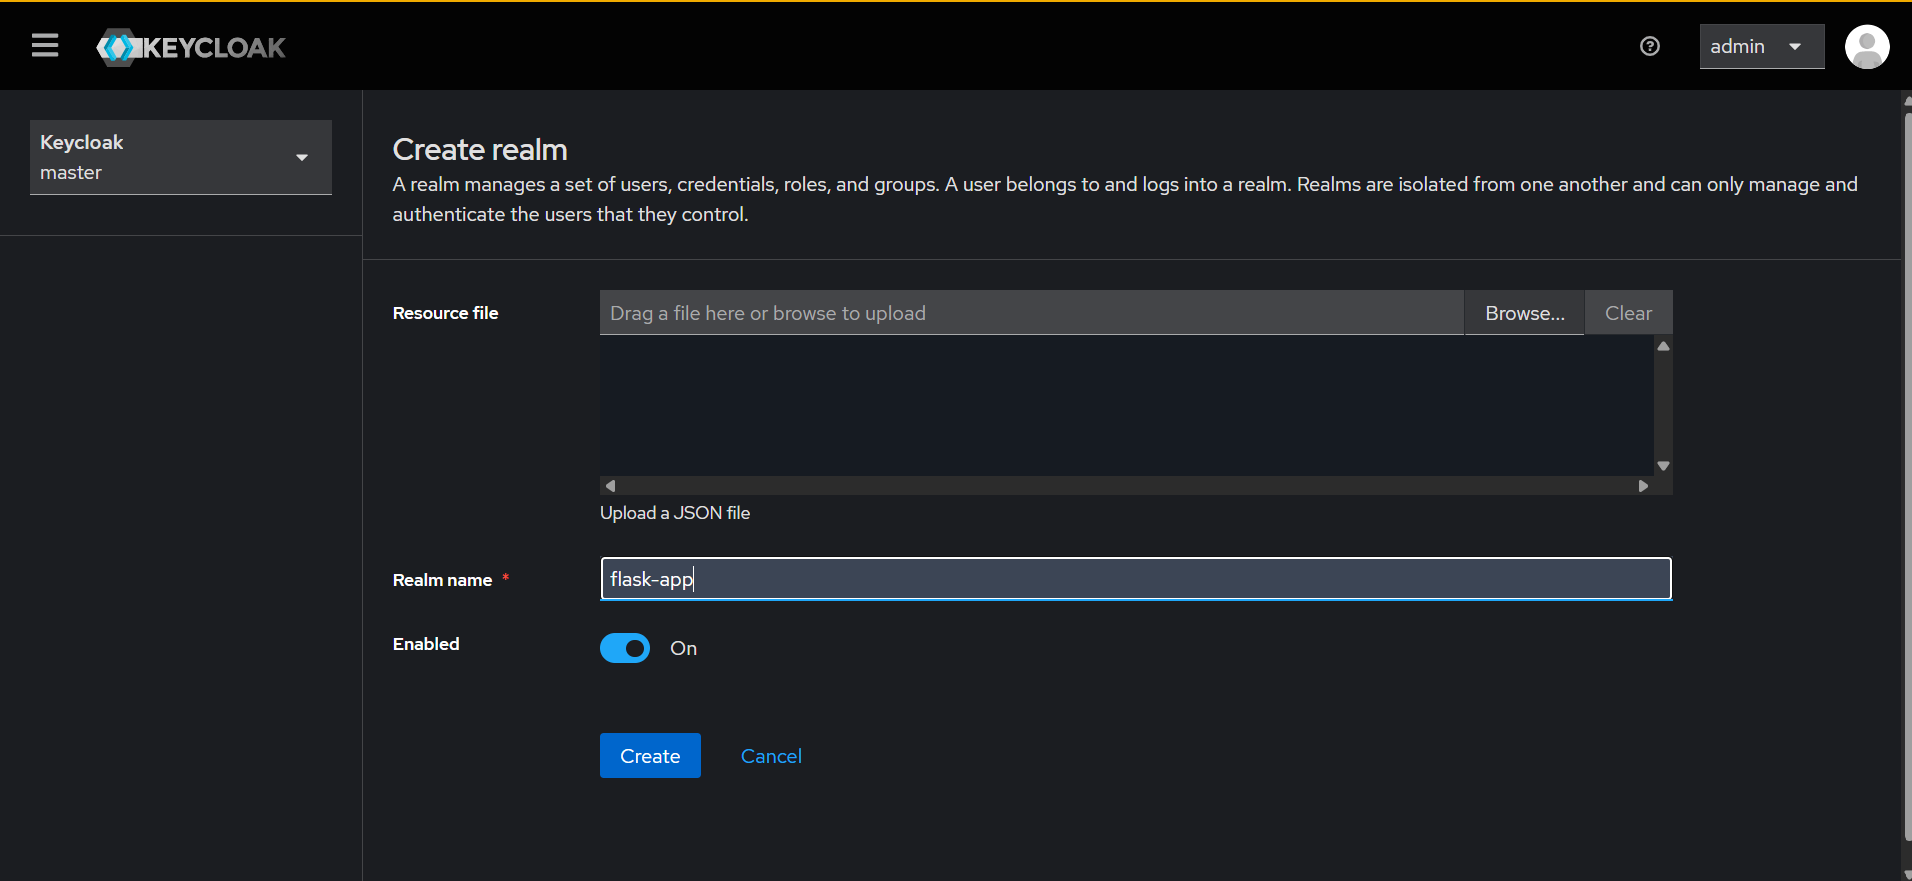
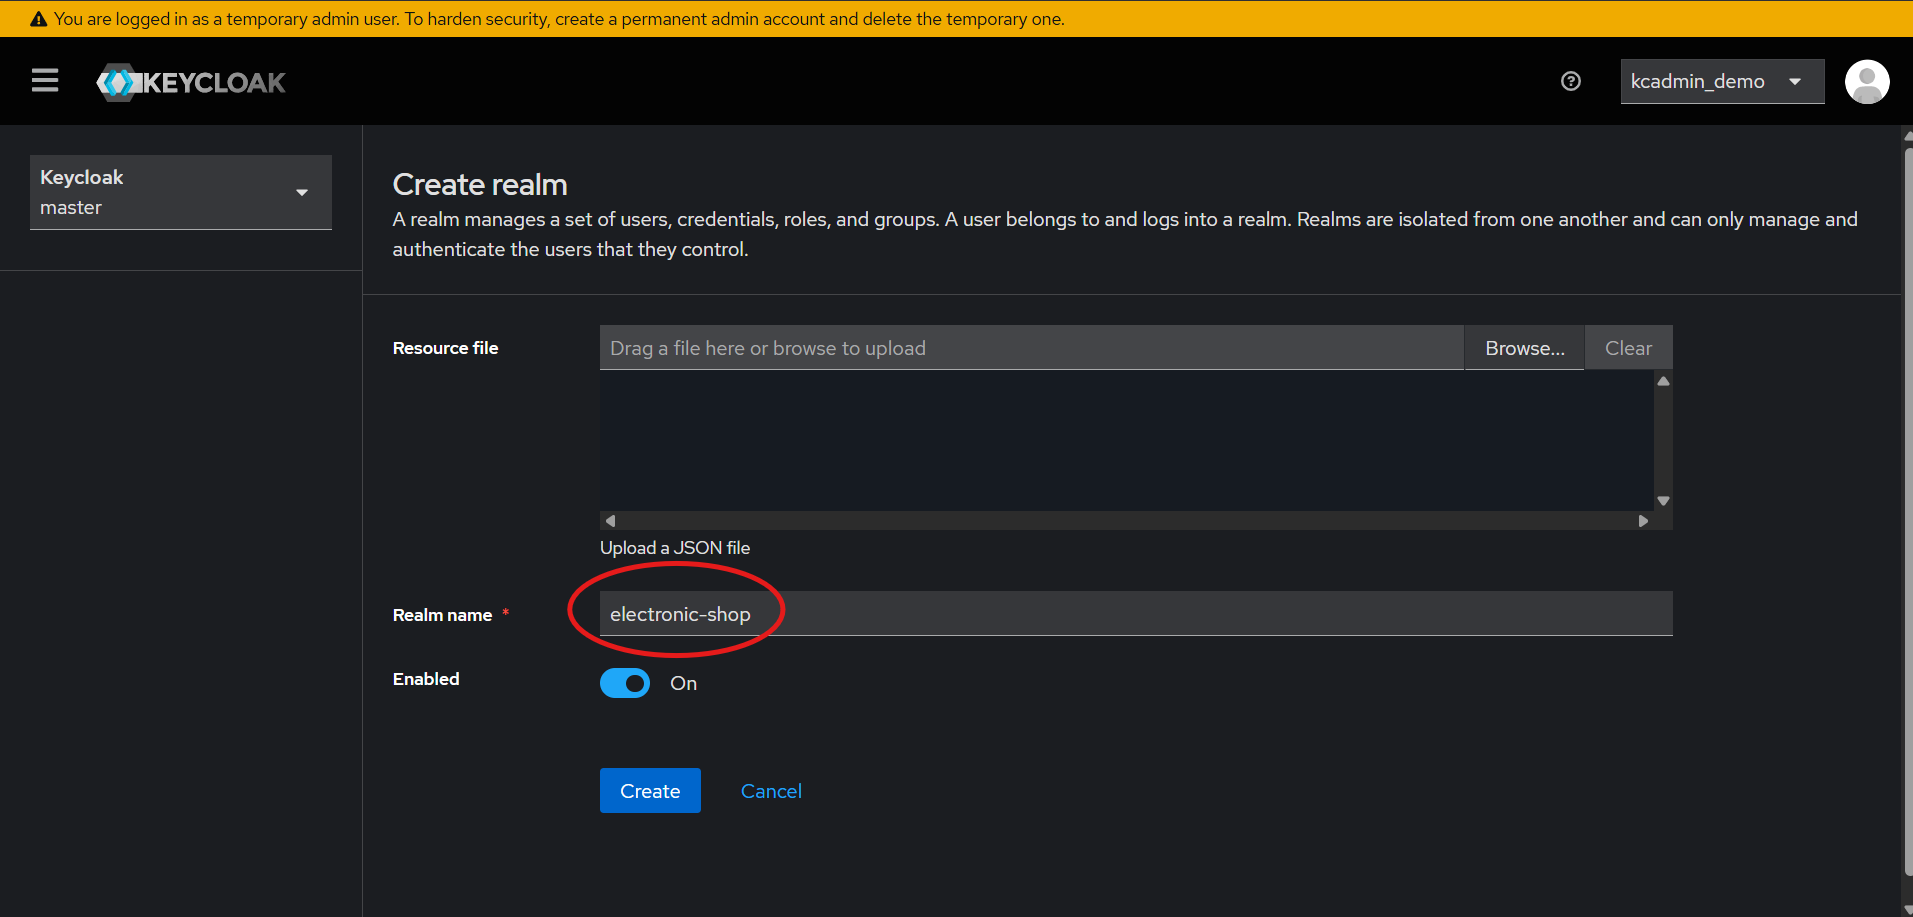
hostname and image

diff --git a/README.md b/README.md
@@ -110,6 +110,7 @@ This deployment uses a **4-VM architecture**.
 | VM2 | Keycloak Node 1 | `kc-node1.xyz` |
 | VM3 | Keycloak Node 2 | `kc-node2.xyz` |
 | VM4 | PostgreSQL | `postgres.db.xyz` |
+| VM5 | flask-app | `10.9.0.70:5000` |
 
 ### 🔁 Request Flow
 
@@ -371,7 +372,15 @@ docker compose up -d
 
 ## 5⃣ Flask Application Setup in Keycloak
 
-Before running the Flask app, you must create the Keycloak realm and client.
+Before running the Flask app, you must create the `Keycloak realm` and `client`.
+Navigate to `http://10.9.0.71` and login with the boothstrap values in **Keycloak node env** file. for this repo:
+
+```bash
+user = kcadmin_demo
+```
+```bash
+password = DemoAdminPass_2026!
+```
 
 ### Phase 1: Create Realm
 
